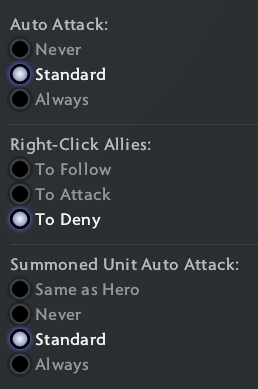
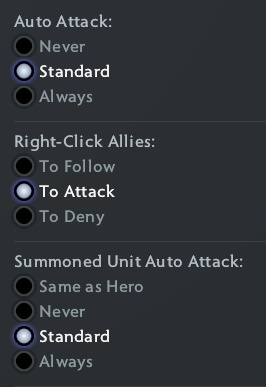
.

Changed region(s): [[0.031, 0.6512, 0.9302, 0.9612], [0.031, 0.3411, 0.5891, 0.6202], [0.031, 0.031, 0.4341, 0.2791]]

diff --git a/web/index.html b/web/index.html
@@ -134,6 +134,7 @@
         <li><b>Quickbuy:</b> <kbd>Alt</kbd>+<kbd>2</kbd></li>
         <li><b>Courier Deliver:</b> <kbd>Alt</kbd>+<kbd>3</kbd></li>
         <li><b>Courier Burst:</b> <kbd>Alt</kbd>+<kbd>4</kbd></li>
+        <li><b>Courier Shield:</b> <kbd>Alt</kbd>+<kbd>5</kbd></li>
         <li><b>Buy Sticky:</b> <kbd>Y</kbd></li>      
 
         <div class="separator"></div>
@@ -338,22 +339,13 @@
 
       <div class="separator mt2"></div>
 
-      <p><br><span class="red">Important!</span><br><br>
-        While this illustrates my point, most likely, you still <b>want</b> a hotkey for your passive abilities.<br>
-        Reason?<br>
-        If you don't have a key bound to a skill, you have to assign points to abilities via mouse instead of assign points via <kbd>CTRL</kbd> + <kbd>Ability Key</kbd><br><br>
-        So keep this in mind.
-      </p>
-
-      <div class="separator mt2"></div>
-
       <p class="mt2">
-        <spell>Ogre Magi</spell><img class="heroicon" src="assets/images/heroicon/ogremagi.jpg" alt=""> has technically 6 Abilities.
+        Another example is <spell>Ogre Magi</spell><img class="heroicon" src="assets/images/heroicon/ogremagi.jpg" alt="">.
       </p>
 
       <p class="mt2">
-        But it's crucial to note, that <spell>Multicast</spell><img class="heroicon" src="assets/images/spellicon/multicast.jpg" alt=""> is a <i>passive</i>.<br>
-        <b>It doesn't need</b> a hotkey.
+        6 Abilities, but <spell>Multicast</spell><img class="heroicon" src="assets/images/spellicon/multicast.jpg" alt=""> is a <i>passive</i>.<br>
+        It can't be activated.<br>
       </p>
 
       <p class="mt2">
@@ -364,20 +356,25 @@
         Leave <spell>Bloodlust</spell><img class="heroicon" src="assets/images/spellicon/bloodlust.jpg" alt=""> on <kbd>E</kbd> and move <spell>Fire Shield</spell><img class="heroicon" src="assets/images/spellicon/fireshield.jpg" alt=""> to <kbd>R</kbd>.
       </p>
 
-      <img class="" src="assets/images/options/abilities-ogremagi-binds.jpg" alt=""> 
+      <img class="" src="assets/images/options/abilities-ogremagi-binds.jpg" alt="">
 
       <p>
-        This is much better, because both 'buff abilities' are next to each other and use great keys.
+        This is reasonable, because both of our 'buff abilities' are next to each other and use great keys.<br>
+        But this is not ideal, because...
       </p>
 
-      <p class="mt2">
-        <span class="smaller">I hope one day we'll be able to rearrange abilities on the HUD to make it visually coherent as well.</span>
+      <div class="separator mt2"></div>
+
+      <p><span class="red">Important!</span><br><br>
+        You still <b>want</b> a hotkey for your passive abilities:<br>
+        If you don't have a hotkey, you can't use <kbd>CTRL</kbd> + <kbd>Ability Key</kbd> to learn the ability.<br>
+        You don't need <i>a great</i> key, but you <b>do</b> need <i>a</i> key.
       </p>
 
       <div class="separator mt2"></div>
 
       <p class="mt2">
-        Let's try something with 6 active abilities:
+        Let's try something with 6 <i>active</i> buttons:
       </p>
 
       <img class="" src="assets/images/options/abilities-hoodwink-binds-01.jpg" alt=""> 
@@ -391,7 +388,7 @@
       </p>
 
       <p class="mt2">
-        Despite the fact that we have <act>Control Group 4</act> bound to <kbd>4</kbd>, it's still possible to use <kbd>4</kbd> as an ability key!
+        <span class="red">Important:</span> despite the fact that we have <act>Control Group 4</act> bound to <kbd>4</kbd>, it's still possible to use <kbd>4</kbd> as an ability key!
       </p>
       
       <p class="mt2">
@@ -403,7 +400,8 @@
       </p>
       
       <p class="mt2">
-        This means, <spell>Hoodwink</spell><img class="heroicon" src="assets/images/heroicon/hoodwink.jpg" alt=""> — among many — can get away with <b>0 control groups</b> and easily have a set up like this:
+        This means, <spell>Hoodwink</spell><img class="heroicon" src="assets/images/heroicon/hoodwink.jpg" alt=""> — among many — can get away with <b>0 control groups</b>.<br>
+        We can easily have a set up like this:
       </p>
 
       <img class="" src="assets/images/options/abilities-hoodwink-binds-02.jpg" alt=""> 
@@ -880,6 +878,7 @@
         <li><b>Quickbuy:</b> <kbd>Alt</kbd>+<kbd>2</kbd></li>
         <li><b>Courier Deliver:</b> <kbd>Alt</kbd>+<kbd>3</kbd></li>
         <li><b>Courier Burst:</b> <kbd>Alt</kbd>+<kbd>4</kbd></li>
+        <li><b>Courier Shield:</b> <kbd>Alt</kbd>+<kbd>5</kbd></li>
         <li><b>Buy Sticky:</b> <kbd>Y</kbd></li>      
       </ul>
 
@@ -911,9 +910,9 @@
 
       <div class="separator mt2"></div>      
              
-      <p>
-        <span class="red">Interesting finds and Limitations:</span><br><br>
-        A lot of keys don't work for <act>Courier Deliver</act> and <act>Courier Boost</act> while the 'Search' input element of <act>Shop</act> is in focus.
+      <p class="mt2">
+        <span class="red">Interesting finds and limitations:</span><br><br>
+        A lot of keys don't work for <act>Courier Deliver</act> and <act>Courier Boost</act> when the 'Search' input element of the <act>Shop</act> is in focus.
 
         <img class="" src="assets/images/options/options-shop-search-bar.jpg" alt="">
 
@@ -932,12 +931,13 @@
 
       <p class="mt2">
         This matters because we have to <b>close the shop window</b> before we can use these hotkeys.<br>
-        Alternatively, we can disable <act>Shop Search Gets Focus On Open</act>.<br>
-        I personally did the latter:
+        Alternatively, we can disable <act>Shop Search Gets Focus On Open</act>.
       </p>
 
-      <img class="" src="assets/images/options/options-shopsearchgetsfocusonopen.jpg" alt="">
-
+      <p class="mt2">
+        I personally did the latter:
+        <img class="" src="assets/images/options/options-shopsearchgetsfocusonopen.jpg" alt="">
+      </p>
 
     </div>
 
@@ -1098,26 +1098,18 @@
       </p>
 
       <p class="mt2">
-        I have <act>Edge Pan</act> disabled for years.
+        I <span class="smaller">personally</span> have <act>Edge Pan</act> disabled for years.
       </p>
 
       <img class="" src="assets/images/options/edgepan.jpg" alt=""> 
 
-      <p>
-        The main reason to keep <act>Edge Pan</act> disabled is for easier portrait clicks.
-      </p>
-
-      <p class="mt2">
-        In a chaotic fight it's <b>not easy</b> to target your important ally with <spell>Glimmer Cape</spell><img class="heroicon" src="assets/images/itemicon/glimmercape.jpg" alt="">, <spell>Decrepify</spell><img class="heroicon" src="assets/images/spellicon/decrepify.jpg" alt=""> or <spell>False Promise</spell><img class="heroicon" src="assets/images/spellicon/falsepromise.jpg" alt="">, which is often a matter of life and death.
-      </p>
-
-      <p class="mt2">
-        Having <act>Edge Pan</act> disabled makes it easier to swing your cursor to the top edge of your screen without your camera moving in a disorienting way.
-      </p>
-
       <p class="mt2">
         Now, I'm not <i>against</i> <act>Edge Pan</act>.<br>
         I just don't use it.
+      </p>
+
+      <p>
+        The main reason to keep <act>Edge Pan</act> disabled is for easier portrait clicks.
       </p>
 
     </div>  
@@ -1143,17 +1135,17 @@
 
       <p class="mt2">
         <span class="red">Oversight?</span><br>
-        Not sure if intended: you <b>can</b> issue attack commands, but you <b>can't</b> right-click top bar portraits (it selects).
+        Not sure if intended: you <b>can</b> <act>Attack</act> top bar portraits, but you <b>can't</b> <kbd>Right-click</kbd>.
       </p>
 
       <div class="separator mt2"></div>
 
       <p class="mt2">
         This is relevant, because attacking an enemy hero <b>draws creep aggro</b>.<br>
-        And you can draw creep aggro by issuing an attack on <b>any hero</b> — on any lane.
+        And you can draw creep aggro by using <act>Attack</act> hotkey on <b>any hero</b> — <b>on any lane</b>.
       </p>
 
-      <p class="mt2">This is obviously extremely useful on heroes that benefit from creeps attacking them:<br>
+      <p class="mt2">This is extremely useful on heroes that benefit from creeps attacking them:<br>
         <spell>Axe</spell><img class="heroicon" src="assets/images/heroicon/axe.jpg" alt=""> because of <spell>Counter Helix</spell><img class="heroicon" src="assets/images/spellicon/counterhelix.jpg" alt="">, <br>
       
         <spell>Timbersaw</spell><img class="heroicon" src="assets/images/heroicon/timbersaw.jpg" alt=""> because of <spell>Reactive Armor</spell><img class="heroicon" src="assets/images/spellicon/reactivearmor.jpg" alt=""> and <br>
@@ -1184,10 +1176,6 @@
       <img class="" src="assets/images/options/options-autoattack.jpg" alt=""> 
 
       <p class="mt2">
-        You might want to use <act>Auto Attack: Always</act> in the early game for 'Cancel Spam' last hitting. <span class="smaller">I personally don't bother with it.</span>
-      </p>
-
-      <p class="mt2">
         You definitely want to enable auto attack for illusion based heroes such as <spell>Phantom Lancer</spell><img class="heroicon" src="assets/images/heroicon/phantomlancer.jpg" alt="">, <spell>Terrorblade</spell><img class="heroicon" src="assets/images/heroicon/terrorblade.jpg" alt=""> and <spell>Naga Siren</spell><img class="heroicon" src="assets/images/heroicon/nagasiren.jpg" alt="">, so that you and the illusions auto attack creeps.
       </p>
 
@@ -1199,8 +1187,40 @@
 
       <img class="" src="assets/images/options/quickattackmove.jpg" alt=""> 
 
+      <p class="mt2">
+        You <i>might</i> want to use <act>Auto Attack: Always</act> for 'Cancel Hit' last hitting.<br>
+        But that's old.<br><br>
+        The newest tech for last-hits is to use the <act>Auto-repeat Right Mouse</act> instead.
+      </p>
+
     </div>    
 
+
+    <!-------->
+    <div class="wrap-section-block">
+
+      <h2>How to Last-Hit</h2>
+
+      <p class="mt2">
+        Step 1. Enable <act>Auto-repeat Right Mouse</act> and <act>Quick Attack</act>.
+      </p>
+
+      <img class="" src="assets/images/options/autorepeatmouse.jpg" alt=""> 
+      <img class="" src="assets/images/options/quickattackmove.jpg" alt="">
+
+      <p class="mt2">
+        Step 2. Press and hold your <act>Right-Click</act> or <act>Attack</act> on your target creep.
+      </p>
+
+      <p class="mt2">
+        Step 3. Spam your <act>Stop</act> command to cancel the animation.
+      </p>
+
+      <p class="mt4">
+        This way you can reliably last-hit every creep.
+      </p>
+
+    </div>    
 
     <!-------->
     <div class="wrap-section-block">
@@ -1305,7 +1325,7 @@
         Especially considering the kind of nicknames Dota 2 players have.
       </p>
       
-      <p class="mt2">It's an art form, and I will appreciate it in a lobby.</p>
+      <p class="mt2">Dota 2 nicknames is an art form, but I will appreciate it in a lobby.</p>
 
     </div>
 
